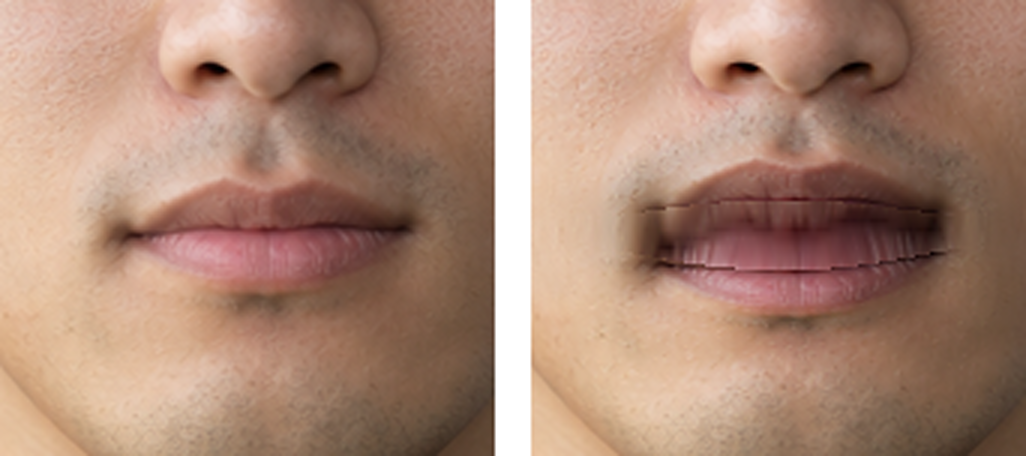
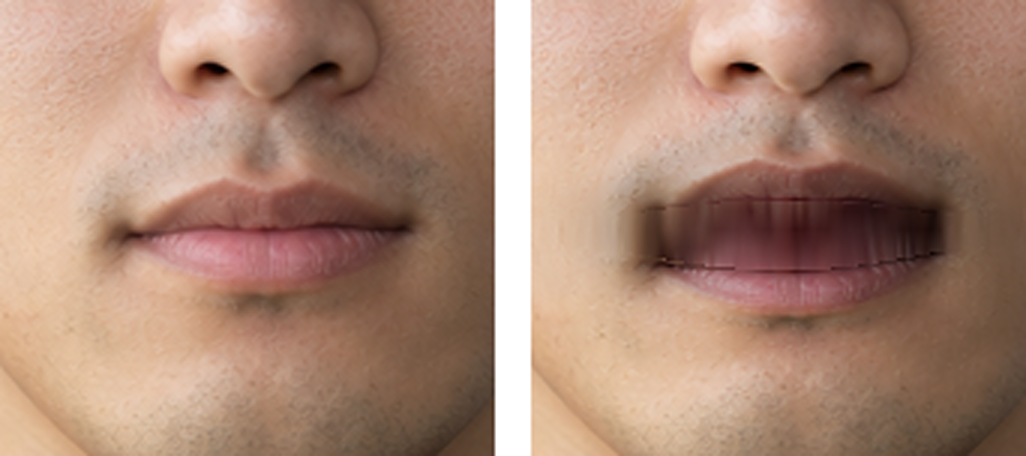
自迭代 · write _t25d_face.py

Changed region(s): [[0.6238, 0.4298, 0.9357, 0.614]]

diff --git a/_t25d_face.py b/_t25d_face.py
@@ -1,0 +1,39 @@
+"""原始分辨率整脸对比：闭嘴 vs 张嘴 vs 张嘴+头姿。"""
+import os, sys
+ROOT = r"D:\local-multimodal-src"
+os.chdir(ROOT)
+sys.path.insert(0, ROOT)
+
+import numpy as np
+import cv2
+from backend import avatar2 as A2
+from backend import avatar25d as A25
+
+img = A2._img_path()
+p2 = A2._prep(img)
+p3 = A25._prep3d(img)
+W, H = p2["wh"]
+
+cases = []
+for name, op, pose in [
+    ("闭嘴", 0.0, (0, 0, 0, 0, 0, 1.0)),
+    ("半张", 0.55, (0, 0, 0, 0, 0, 1.0)),
+    ("全张", 1.0, (0, 0, 0, 0, 0, 1.0)),
+    ("全张+转头", 1.0, (4.0, -2.0, 1.5, 5.0, 2.0, 1.006)),
+    ("闭嘴+转头", 0.0, (-4.0, 2.0, -1.5, -5.0, -2.0, 0.994)),
+]:
+    fr = A25._mouth_frame(p2, op, 1.0, 1.2)
+    fr = np.asarray(fr.convert("RGB"))
+    y, pt, r, tx, ty, sc = pose
+    fr = A25._warp(fr, p3, y, pt, r, tx, ty, sc)
+    cases.append((name, fr))
+    print("%-10s 平均亮度 %.1f" % (name, fr.mean()))
+
+sep = np.full((H, 6, 3), 255, np.uint8)
+strip = cases[0][1]
+for _, f in cases[1:]:
+    strip = np.hstack([strip, sep, f])
+strip = cv2.resize(strip, (strip.shape[1] // 2, strip.shape[0] // 2),
+                   interpolation=cv2.INTER_AREA)
+cv2.imwrite("_p25d_face.png", cv2.cvtColor(strip, cv2.COLOR_RGB2BGR))
+print("已存 _p25d_face.png（闭嘴|半张|全张|全张+转头|闭嘴+转头，各360px）")
